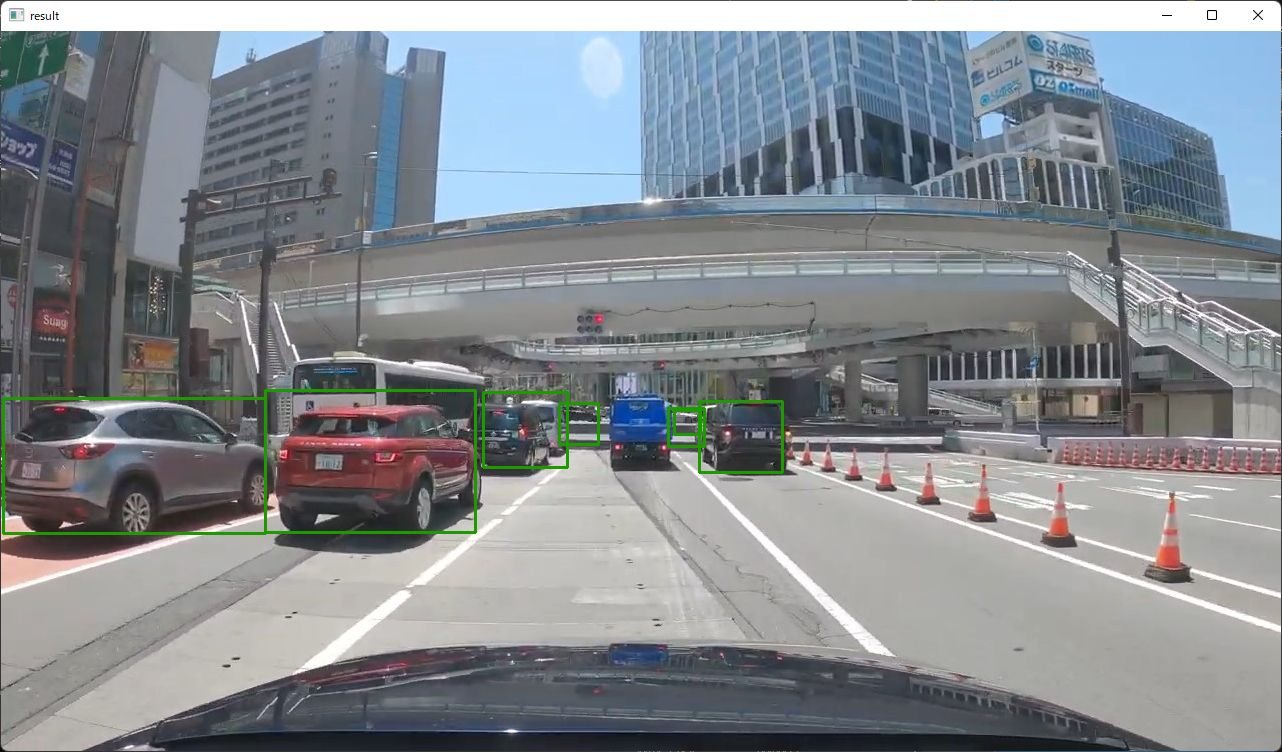
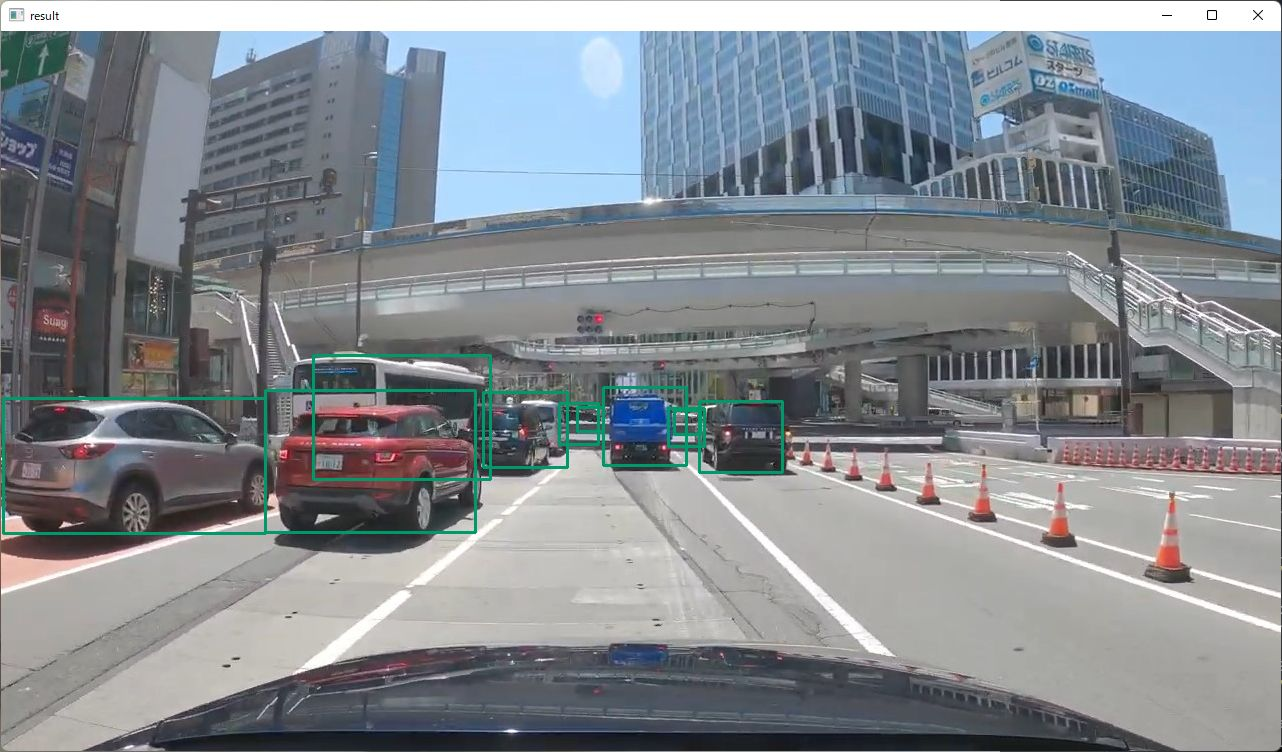
[pj_dnn_det_vehicle-detection-0200] Adjust threshold

diff --git a/pj_dnn_det_person-detection-0202/src/detection_engine/detection_engine.rs b/pj_dnn_det_person-detection-0202/src/detection_engine/detection_engine.rs
@@ -5431,7 +5431,7 @@ for i in range(0, int(prio_box.shape[0] / 4)):
 
 
     /* Other Parameters */
-    const SCORE_THRESHOLD: f32 = 0.4;
+    const SCORE_THRESHOLD: f32 = 0.2;
     const NMS_IOU_THRESHOLD: f32 = 0.6;
 
     pub fn new() -> Self {

diff --git a/pj_dnn_det_vehicle-detection-0200/src/detection_engine/detection_engine.rs b/pj_dnn_det_vehicle-detection-0200/src/detection_engine/detection_engine.rs
@@ -1390,7 +1390,7 @@ impl DetectionEngine {
 
 
     /* Other Parameters */
-    const SCORE_THRESHOLD: f32 = 0.4;
+    const SCORE_THRESHOLD: f32 = 0.2;
     const NMS_IOU_THRESHOLD: f32 = 0.6;
 
     pub fn new() -> Self {
